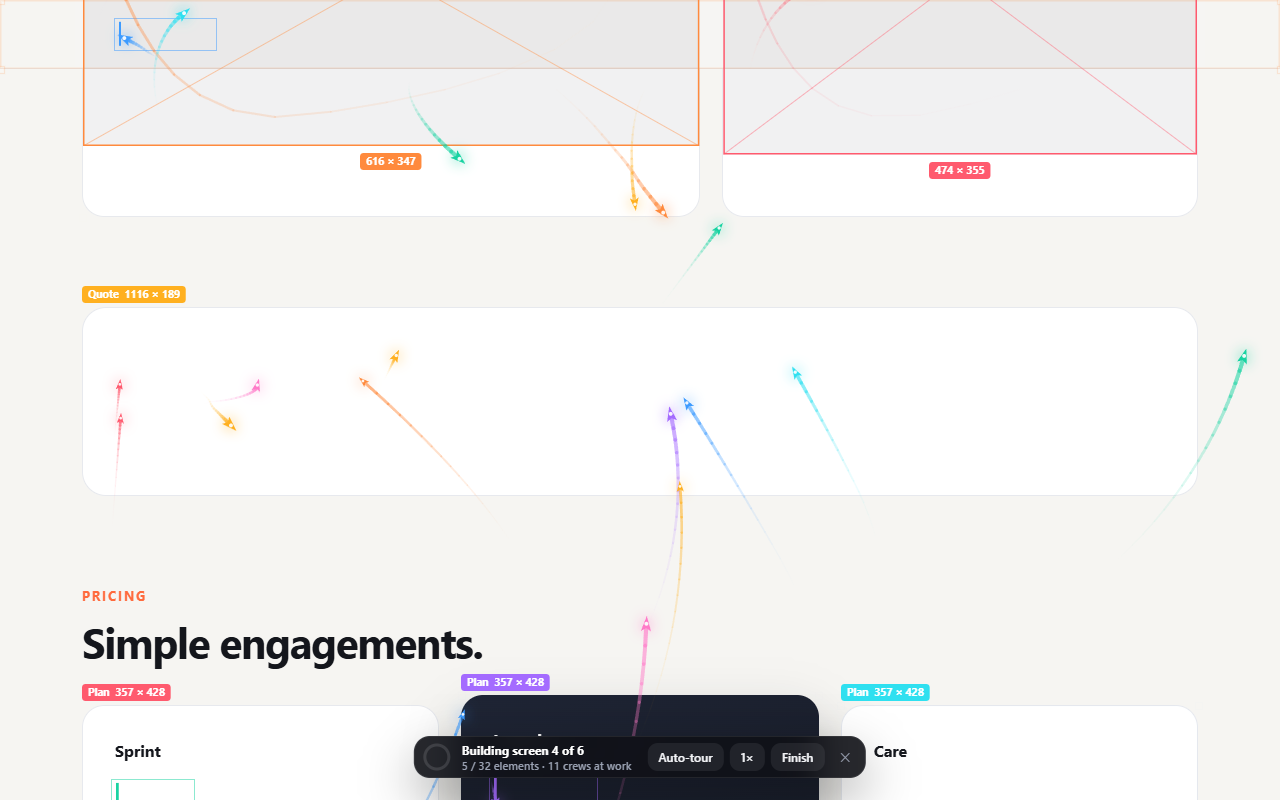
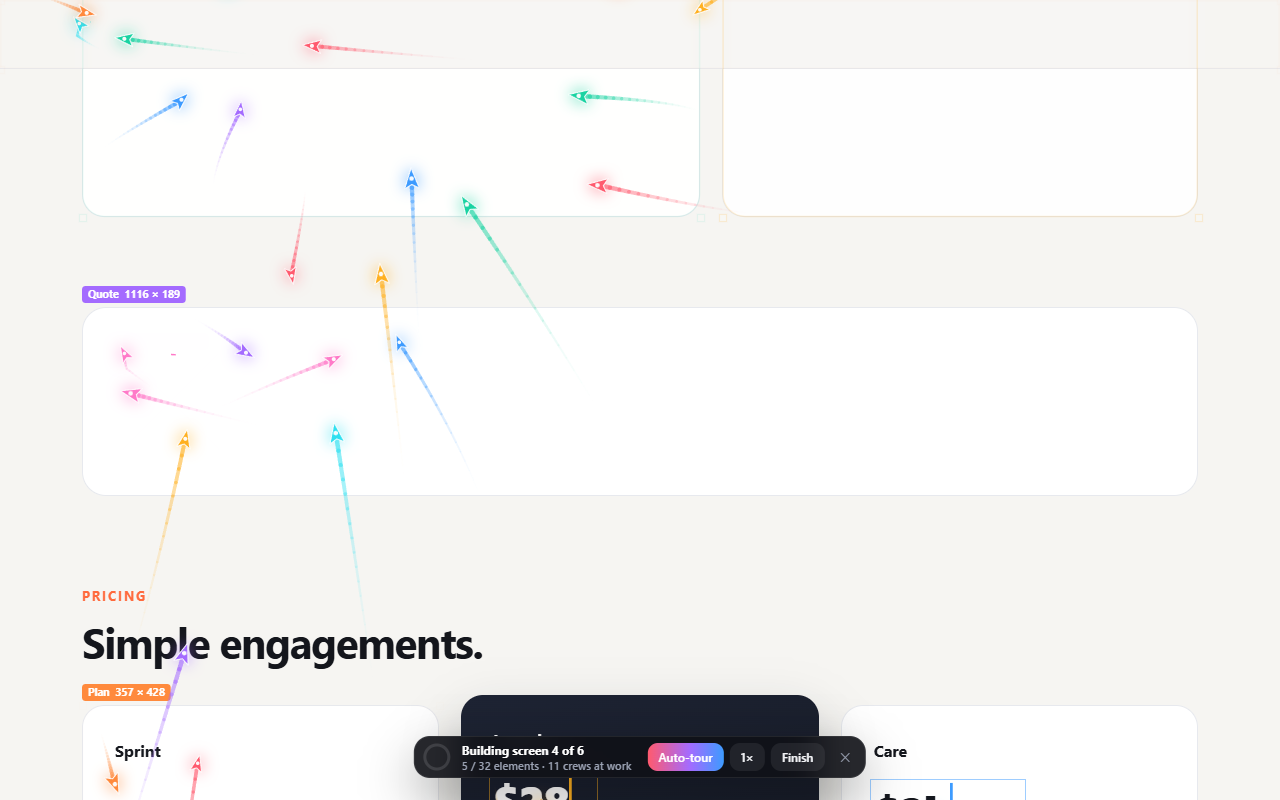
Orbiting swarm, bigger cursors, smoother motion, tour on by default
- Free nibs fly two evenly spaced, counter-rotating rings over the next
  section to be built instead of a loose cloud in the middle of the screen
- Cursors are about 40% larger with a crisp light edge
- Smoother steering (damped arrival) and eased turning, no heading jitter
- Auto-tour is on from the start and hands over to the next screen at once
- Docs, listing and store graphics updated

diff --git a/extension/swarmline.js b/extension/swarmline.js
@@ -37,6 +37,7 @@
   const LANDMARK = new Set(["header", "nav", "main", "section", "article", "aside", "footer", "form", "figure", "button", "ul", "ol", "table"]);
 
   const clamp = (v, a, b) => (v < a ? a : v > b ? b : v);
+  const TAU = Math.PI * 2;
   const easeOut = (t) => 1 - Math.pow(1 - t, 3);
   const easeInOut = (t) => (t < 0.5 ? 4 * t * t * t : 1 - Math.pow(-2 * t + 2, 3) / 2);
   const easeSine = (t) => (1 - Math.cos(Math.PI * t)) / 2;
@@ -492,7 +493,7 @@ canvas.off{pointer-events:none}
       this.stage = new Stage();
       this.dead = false;
       this.speed = reduced() ? 3 : 1;
-      this.tour = false;
+      this.tour = true; // on by default: glide through the page on its own
       this.units = [];
       this.waiting = [];
       this.active = [];
@@ -544,7 +545,7 @@ canvas.off{pointer-events:none}
 <div class="hud" role="toolbar" aria-label="Swarmline">
   <svg class="ring" viewBox="0 0 30 30" aria-hidden="true"><defs><linearGradient id="sw-grad" x1="0" y1="0" x2="1" y2="1"><stop offset="0" stop-color="#FF5A6E"/><stop offset=".55" stop-color="#A46BFF"/><stop offset="1" stop-color="#3D9BFF"/></linearGradient></defs><circle class="bg" cx="15" cy="15" r="12"/><circle class="fg" cx="15" cy="15" r="12" transform="rotate(-90 15 15)" stroke-dasharray="75.4" stroke-dashoffset="75.4"/></svg>
   <div class="meta" aria-live="polite"><span class="t">Clearing the canvas…</span><span class="s">&nbsp;</span></div>
-  <button data-a="tour" aria-pressed="false" title="Glide through the page screen by screen (T)">Auto-tour</button>
+  <button data-a="tour" class="${this.tour ? "on" : ""}" aria-pressed="${this.tour}" title="Glide through the page screen by screen (T)">Auto-tour</button>
   <button data-a="speed" title="Build speed" aria-label="Build speed 1×">1×</button>
   <button data-a="finish" title="Show the finished page now (F)">Finish</button>
   <button data-a="replay" class="pri" hidden title="Build the page again">Replay</button>
@@ -882,7 +883,7 @@ canvas.off{pointer-events:none}
           this.bands = this.addBand(this.bands, s.top, s.bottom);
           this.sweep = null;
         }
-      } else if (resting && this.restFor > 0.15) {
+      } else if (resting && this.restFor > 0.08) {
         const vt = top;
         const vb = Math.min(env.height, top + v.h);
         const gap = this.gapIn(vt, vb);
@@ -906,8 +907,9 @@ canvas.off{pointer-events:none}
           this.dwell += dt;
           if (this.dwell > 0.5) this.finish();
         } else if (this.tour && resting) {
+          // a finished screen hands straight over to the next one
           this.dwell += dt * this.speed;
-          if (this.dwell > 0.45) {
+          if (this.dwell > 0.12) {
             this.dwell = 0;
             const gap = atEnd ? this.gapIn(0, env.height) : null;
             const to = gap ? clamp(gap.top, 0, env.maxTop()) : Math.min(env.maxTop(), top + v.h * 0.82);
@@ -997,9 +999,72 @@ canvas.off{pointer-events:none}
           i, unit: null, role: 0, attached: false, vis: 0, color: PALETTE[i % PALETTE.length],
           x: this.W / 2 + Math.cos(a) * 6, y: this.H / 2 + Math.sin(a) * 6,
           vx: Math.cos(a) * (700 + (i % 4) * 160), vy: Math.sin(a) * (700 + (i % 4) * 160), ang: a,
-          trail: [], seed: Math.random() * Math.PI * 2, born: 0.55 + i * 0.012, size: 0.85 + (i % 3) * 0.18,
+          trail: [], seed: Math.random() * Math.PI * 2, born: 0.55 + i * 0.012, size: 1.2 + (i % 3) * 0.14,
+          ring: i % 3 === 2 ? 1 : 0, orb: a, orbiting: false,
         });
       }
+      this.ringPhase = [0, 0];
+    }
+
+    // where the free swarm circles: over the next thing to build, so it's always
+    // heading for the next section instead of waiting in the middle
+    nextSpot(rects, v) {
+      const top = this.env.top;
+      for (const u of this.waiting) {
+        if (u.state !== 0 || u.fixed) continue;
+        const y = u.y - top + v.y;
+        if (y > v.y + v.h) break; // sorted by y: nothing further is on screen
+        if (y + u.h < v.y) continue;
+        return [u.left0 + Math.min(u.w, 520) / 2, y + Math.min(u.h, 220) / 2];
+      }
+      const fr = this.focus && rects.get(this.focus);
+      if (fr) return [fr.x + fr.w / 2, fr.y + Math.min(fr.h, 160) / 2];
+      // screen done: drift low, the way the tour is about to go
+      return [v.x + v.w / 2, v.y + v.h * (this.tour ? 0.6 : 0.46)];
+    }
+
+    // free nibs fly an evenly spaced double orbit: outer ring one way, inner the other
+    orbitTargets(free, dt) {
+      const W = this.W;
+      const H = this.H;
+      const rings = [[], []];
+      for (const n of free) rings[n.ring].push(n);
+      const total = free.length;
+      const R0 = clamp(54 + total * 4.2, 74, 150);
+      const radii = [R0, R0 * 0.56];
+      const speeds = [0.85, -1.25];
+      const cx = clamp(this.anchor[0], R0 + 24, W - R0 - 24);
+      const cy = clamp(this.anchor[1], R0 + 24, H - R0 - 96);
+      const out = new Map();
+      for (let r = 0; r < 2; r++) {
+        const L = rings[r];
+        const m = L.length;
+        this.ringPhase[r] += speeds[r] * dt;
+        if (!m) continue;
+        const ph = this.ringPhase[r];
+        for (const n of L) {
+          if (!n.orbiting) {
+            n.orbiting = true;
+            n.orb = Math.atan2(n.y - cy, n.x - cx); // join the ring where it is
+          }
+        }
+        // keep their order round the ring, ease each into an even slot
+        const rel = (n) => (((n.orb - ph) % TAU) + TAU) % TAU;
+        L.sort((p, q) => rel(p) - rel(q));
+        const ek = 1 - Math.exp(-dt * 4);
+        for (let k = 0; k < m; k++) {
+          const n = L[k];
+          const slot = ph + (TAU * (k + 0.5)) / m; // half a step in, so no nib sits on the seam
+          let d = (slot - n.orb) % TAU;
+          if (d > Math.PI) d -= TAU;
+          if (d < -Math.PI) d += TAU;
+          n.orb += speeds[r] * dt + d * ek;
+          // a soft rosette: the ring breathes in three lobes as it turns
+          const rr = radii[r] * (1 + 0.05 * Math.sin(3 * (n.orb - ph) + this.time * 1.2 + r * Math.PI));
+          out.set(n, [cx + Math.cos(n.orb) * rr, cy + Math.sin(n.orb) * rr]);
+        }
+      }
+      return out;
     }
 
     crew(u) {
@@ -1068,23 +1133,26 @@ canvas.off{pointer-events:none}
       const dt = this.dt;
       const W = this.W;
       const H = this.H;
-      const fr = this.focus && rects.get(this.focus);
-      const want = fr ? [fr.x + fr.w / 2, fr.y + Math.min(fr.h, 160) / 2] : [W / 2, H * 0.45];
-      if (!this.anchor) this.anchor = want.slice();
-      const ak = 1 - Math.exp(-dt * 2.4);
+      const want = this.nextSpot(rects, v);
+      if (!this.anchor) this.anchor = [W / 2, H * 0.45];
+      const ak = 1 - Math.exp(-dt * 3);
       this.anchor[0] += (want[0] - this.anchor[0]) * ak;
       this.anchor[1] += (want[1] - this.anchor[1]) * ak;
       let sweepY = null;
       if (this.sweep) sweepY = this.sweep.vTop + (this.sweep.vBottom - this.sweep.vTop) * easeInOut(this.sweep.p);
       const free = this.nibs.filter((n) => !n.unit || !rects.get(n.unit));
+      const orbit = !this.outro && sweepY == null ? this.orbitTargets(free, dt) : null;
       for (const n of this.nibs) {
         n.vis = this.time < n.born ? 0 : Math.min(1, n.vis + dt / 0.3);
         let tx;
         let ty;
         let stick = false;
         const R = n.unit && rects.get(n.unit);
+        const target = orbit && orbit.get(n);
+        if (!target) n.orbiting = false;
         if (this.outro) {
-          const a = Math.atan2(n.y - H / 2, n.x - W / 2) || n.seed;
+          // the rings unwind: each nib spirals out and away
+          const a = (Math.atan2(n.y - H / 2, n.x - W / 2) || n.seed) + 0.8;
           tx = n.x + Math.cos(a) * 900;
           ty = n.y + Math.sin(a) * 900;
         } else if (R) {
@@ -1095,13 +1163,11 @@ canvas.off{pointer-events:none}
           const j = free.indexOf(n);
           tx = v.x + (v.w * (j + 0.5)) / Math.max(1, free.length);
           ty = sweepY + Math.sin(this.time * 6 + j) * 6;
+        } else if (target) {
+          [tx, ty] = target;
         } else {
-          // idle: a loose, lively cloud near the latest work
-          const j = free.indexOf(n);
-          const a = n.seed + this.time * (0.7 + (j % 3) * 0.18) * (j % 2 ? 1 : -1);
-          const rr = 40 + (j % 6) * 16 + Math.sin(this.time * 1.3 + j) * 10;
-          tx = this.anchor[0] + Math.cos(a) * rr;
-          ty = this.anchor[1] + Math.sin(a) * rr * 0.6;
+          tx = this.anchor[0];
+          ty = this.anchor[1];
         }
         if (stick) {
           const k = 1 - Math.exp(-dt * 36);
@@ -1115,28 +1181,35 @@ canvas.off{pointer-events:none}
           const dx = tx - n.x;
           const dy = ty - n.y;
           const d = Math.hypot(dx, dy) || 1;
-          const sp = Math.min(2800, d * 8.5);
-          let ax = (dx / d) * sp - n.vx;
-          let ay = (dy / d) * sp - n.vy;
+          // arrive smoothly: fast across the page, easing off as it closes in
+          const sp = Math.min(2200, d * 6.2);
+          let ax = ((dx / d) * sp - n.vx) * 9;
+          let ay = ((dy / d) * sp - n.vy) * 9;
           for (const m of this.nibs) {
-            if (m === n) continue;
+            if (m === n || (n.orbiting && m.orbiting)) continue; // the rings keep their own spacing
             const ex = n.x - m.x;
             const ey = n.y - m.y;
             const e = ex * ex + ey * ey;
-            if (e < 324 && e > 0.01) {
+            if (e < 576 && e > 0.01) {
               const s = Math.sqrt(e);
-              ax += (ex / s) * 1100;
-              ay += (ey / s) * 1100;
+              const push = 1400 * (1 - s / 24);
+              ax += (ex / s) * push;
+              ay += (ey / s) * push;
             }
           }
           const am = Math.hypot(ax, ay) || 1;
-          const step = Math.min(10500 * dt, am);
+          const step = Math.min(8200 * dt, am * dt);
           n.vx += (ax / am) * step;
           n.vy += (ay / am) * step;
           n.x += n.vx * dt;
           n.y += n.vy * dt;
         }
-        if (Math.hypot(n.vx, n.vy) > 40) n.ang = Math.atan2(n.vy, n.vx);
+        // turn smoothly towards the direction of travel (no snapping or jitter)
+        if (Math.hypot(n.vx, n.vy) > 30) {
+          let da = Math.atan2(n.vy, n.vx) - n.ang;
+          da = ((da + Math.PI) % TAU + TAU) % TAU - Math.PI;
+          n.ang += da * (1 - Math.exp(-dt * (stick ? 9 : 14)));
+        }
         n.trail.push(n.x, n.y);
         if (n.trail.length > 36) n.trail.splice(0, 2);
       }
@@ -1154,7 +1227,7 @@ canvas.off{pointer-events:none}
         for (let i = 1; i < segs; i++) {
           const f = i / segs;
           g.globalAlpha = a * f * f * 0.7;
-          g.lineWidth = (0.6 + 3 * f) * n.size;
+          g.lineWidth = (0.6 + 2.6 * f) * n.size;
           g.beginPath();
           g.moveTo(T[i * 2 - 2], T[i * 2 - 1]);
           g.lineTo(T[i * 2], T[i * 2 + 1]);
@@ -1169,21 +1242,25 @@ canvas.off{pointer-events:none}
         g.save();
         g.translate(n.x, n.y);
         g.rotate(n.ang);
-        // soft glow, then a pen-nib head with a bright core
+        // soft glow, then an arrow head with a crisp light edge and a bright core
         g.shadowColor = n.color;
-        g.shadowBlur = 14;
+        g.shadowBlur = 16;
         g.fillStyle = n.color;
         g.beginPath();
-        g.moveTo(8 * s, 0);
-        g.lineTo(-4.5 * s, -4.2 * s);
-        g.lineTo(-2 * s, 0);
-        g.lineTo(-4.5 * s, 4.2 * s);
+        g.moveTo(9 * s, 0);
+        g.lineTo(-5 * s, -5 * s);
+        g.lineTo(-2.2 * s, 0);
+        g.lineTo(-5 * s, 5 * s);
         g.closePath();
         g.fill();
         g.shadowBlur = 0;
-        g.fillStyle = "rgba(255,255,255,0.92)";
+        g.lineJoin = "round";
+        g.lineWidth = 1.1;
+        g.strokeStyle = "rgba(255,255,255,0.85)";
+        g.stroke();
+        g.fillStyle = "rgba(255,255,255,0.95)";
         g.beginPath();
-        g.arc(1.6 * s, 0, 1.6 * s, 0, Math.PI * 2);
+        g.arc(1.8 * s, 0, 1.5 * s, 0, Math.PI * 2);
         g.fill();
         g.restore();
       }

diff --git a/site/support.html b/site/support.html
@@ -24,12 +24,12 @@
   <ol class="steps">
     <li><b>Install</b> Swarmline from the Chrome Web Store, then pin it from the puzzle-piece menu next to the address bar.</li>
     <li><b>Open any website</b> and click the Swarmline icon (or press <kbd>Alt</kbd> + <kbd>Shift</kbd> + <kbd>L</kbd>).</li>
-    <li><b>Watch, tour, finish:</b> <kbd>T</kbd> toggles Auto-tour, <kbd>F</kbd> shows the finished page, <kbd>Esc</kbd> exits.</li>
+    <li><b>Watch, tour, finish:</b> Auto-tour is on by default and <kbd>T</kbd> toggles it, <kbd>F</kbd> shows the finished page, <kbd>Esc</kbd> exits.</li>
   </ol>
 
   <h2>Common questions</h2>
   <details><summary>The icon shows a red × and nothing happens</summary><p>Chrome doesn't let any extension run on its own pages (<code>chrome://</code> pages, the Chrome Web Store) or inside the built-in PDF viewer. Open a normal website and try again.</p></details>
-  <details><summary>How do I record a video of it?</summary><p>Use any screen recorder (Windows: <kbd>Win</kbd> + <kbd>Alt</kbd> + <kbd>R</kbd>, or the Snipping Tool's record mode; macOS: <kbd>Shift</kbd> + <kbd>Cmd</kbd> + <kbd>5</kbd>). Start Swarmline, press Auto-tour, and pick 2× for a snappy reel or 1× for a calm walkthrough.</p></details>
+  <details><summary>How do I record a video of it?</summary><p>Use any screen recorder (Windows: <kbd>Win</kbd> + <kbd>Alt</kbd> + <kbd>R</kbd>, or the Snipping Tool's record mode; macOS: <kbd>Shift</kbd> + <kbd>Cmd</kbd> + <kbd>5</kbd>). Start Swarmline (Auto-tour is already on) and pick 2× for a snappy reel or 1× for a calm walkthrough.</p></details>
   <details><summary>Can I click the page while it's being built?</summary><p>Not while it's building, so you can't hit a link you can't see yet. You can still scroll, and the swarm builds whatever comes to rest on screen. As soon as it finishes (or you press Finish), the page is fully interactive.</p></details>
   <details><summary>Does it change or save the website?</summary><p>No. Swarmline only hides and re-shows parts of the page in your own browser tab for the animation. Nothing is saved, nothing is sent anywhere, and when it ends or you exit, the page is exactly as it was. Reloading the page also clears it completely.</p></details>
   <details><summary>Some part of a page didn't animate, it just appeared</summary><p>Decorative backgrounds and very small details come in with the end-of-screen sweep rather than being built one by one, and content you scroll past quickly simply appears. On very large pages (thousands of elements), the far end is built in bigger pieces.</p></details>

diff --git a/site/index.html b/site/index.html
@@ -65,7 +65,7 @@
     <ol class="steps">
       <li><b>Add Swarmline to Chrome</b> from the Chrome Web Store and pin it from the puzzle-piece menu.</li>
       <li><b>Open any website</b> and click the Swarmline icon, or press <kbd>Alt</kbd> + <kbd>Shift</kbd> + <kbd>L</kbd>.</li>
-      <li><b>Press Auto-tour</b> (or <kbd>T</kbd>) to glide through the whole page, pick <b>1× / 2× / 3×</b> speed, and hit <b>Finish</b> (<kbd>F</kbd>) any time. <kbd>Esc</kbd> exits.</li>
+      <li><b>Sit back:</b> Auto-tour glides through the whole page on its own (<kbd>T</kbd> turns it off so you can scroll yourself). Pick <b>1× / 2× / 3×</b> speed, and hit <b>Finish</b> (<kbd>F</kbd>) any time. <kbd>Esc</kbd> exits.</li>
     </ol>
   </div></section>
 </main>

diff --git a/README.md b/README.md
@@ -4,7 +4,7 @@
 
 ![Swarmline building a page](store/marquee-1400x560.png)
 
-Swarmline is a Chrome extension. Click it on any page and the page becomes a blank canvas in its own colours. A swarm of glowing, colourful pen-nibs then builds it back in reading order: crews trace each box with a live size readout before it fills in for real, type every headline and paragraph letter by letter, and scan images into place. When a screen is done, the swarm rides a light sweep across it and Auto-tour glides on to the next.
+Swarmline is a Chrome extension. Click it on any page and the page becomes a blank canvas in its own colours. A swarm of glowing, colourful pen-nibs then builds it back in reading order: crews trace each box with a live size readout before it fills in for real, type every headline and paragraph letter by letter, and scan images into place. When a screen is done, the swarm rides a light sweep across it and Auto-tour glides straight on to the next. Between jobs the free nibs circle in two counter-rotating rings over the next section to be built.
 
 Everything appears in place on the real page, so the result is always exactly the live site: its fonts, GSAP and CSS animations, video, canvases and links keep working throughout.
 
@@ -21,12 +21,12 @@ Everything appears in place on the real page, so the result is always exactly th
 | | |
 | --- | --- |
 | **Alt+Shift+L** or the toolbar button | Start (again to stop) |
-| **Auto-tour** / **T** | Glide through the page screen by screen |
+| **Auto-tour** / **T** | Glide through the page screen by screen (on by default; T turns it off) |
 | **1× / 2× / 3×** | Build speed |
 | **Finish** / **F** | Show the finished page now |
 | **Esc** / **✕** | Exit (the page is restored exactly) |
 
-You can also scroll yourself: the swarm builds whatever comes to rest on screen. With *prefers-reduced-motion* it builds at 3× with a smaller swarm, and the tour jumps instead of gliding.
+Turn the tour off to scroll yourself: the swarm builds whatever comes to rest on screen. With *prefers-reduced-motion* it builds at 3× with a smaller swarm, and the tour jumps instead of gliding.
 
 ## How it works
 

diff --git a/store/LISTING.md b/store/LISTING.md
@@ -36,7 +36,7 @@ Swarmline sends a swarm of glowing, colourful pen-nibs across the page. They wor
 
 Everything appears in place on the real page, in the site's own colours and fonts. Nothing is copied or redrawn, so the finished page is exactly the live site, with its animations, video and links all working.
 
-Turn on Auto-tour and Swarmline glides down the page screen by screen, centring each one before the swarm builds it. Choose 1×, 2× or 3× speed, or press Finish to show the whole page at once.
+Auto-tour is on from the start: Swarmline glides down the page screen by screen, centring each one before the swarm builds it, and moves on the moment a screen is finished. Press T to turn it off and scroll yourself. Choose 1×, 2× or 3× speed, or press Finish to show the whole page at once.
 
 Great for:
 • Screen recordings, reels and launch videos of your own website
